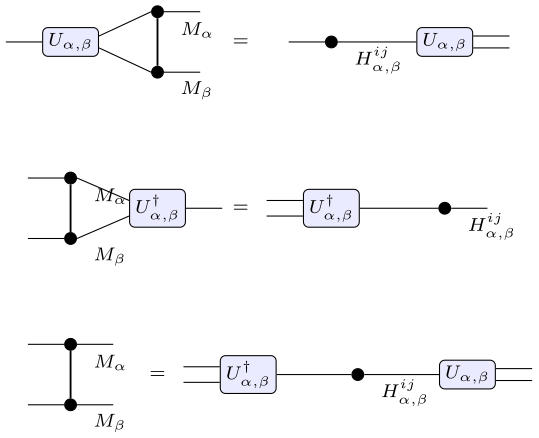
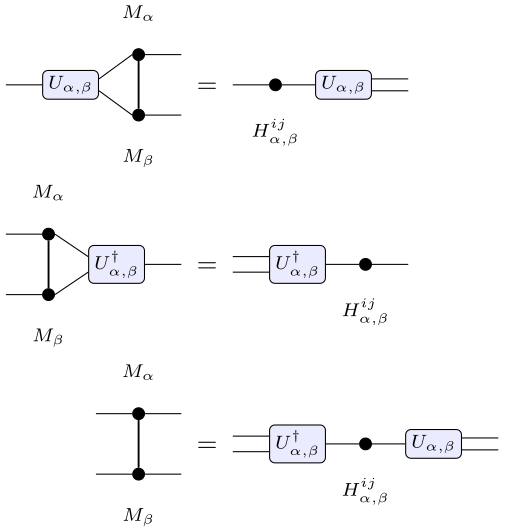
fix(tikz): stabilize labels and PEPS bounds

diff --git a/blueprint/src/macros/tn_print.tex b/blueprint/src/macros/tn_print.tex
@@ -1172,7 +1172,8 @@
         \TNVirtualPort{tnDnOpenWestPort}{tnDn}{west}\TNOpenVirtualWest{tnDnOpenWestPort}
         \TNVirtualPort{tnUpOpenEastPort}{tnUp}{east}\TNOpenVirtualEast{tnUpOpenEastPort}
         \TNVirtualPort{tnDnOpenEastPort}{tnDn}{east}\TNOpenVirtualEast{tnDnOpenEastPort}
-        \TNInsertion{tnu}{(0,0)}{#1}
+        \TNInsertion{tnu}{(0,0)}{}
+        \TNLabelRight{tnu}{#1}
         \TNPhysicalPort{tnUpTotnu}{tnUp}{south}\TNPhysicalPort{tnuTotnUp}{tnu}{north}\TNConnectPhysical{tnUpTotnu}{tnuTotnUp}
         \TNPhysicalPort{tnuTotnDn}{tnu}{south}\TNPhysicalPort{tnDnTotnu}{tnDn}{north}\TNConnectPhysical{tnuTotnDn}{tnDnTotnu}
         \TNPlacedLabel{tnClientLabel1139}{(-1.25,0)}{X}
@@ -1242,9 +1243,12 @@
         \TNTensor{tnD2}{(1.55,-0.48)}
         \TNTensor{tnU3}{(4.30,0.48)}
         \TNTensor{tnD3}{(4.30,-0.48)}
-        \TNInsertion{tnuA}{(0,0)}{#1}
-        \TNInsertion{tnuB}{(1.55,0)}{#1}
-        \TNInsertion{tnuC}{(4.30,0)}{#1}
+        \TNInsertion{tnuA}{(0,0)}{}
+        \TNInsertion{tnuB}{(1.55,0)}{}
+        \TNInsertion{tnuC}{(4.30,0)}{}
+        \TNLabelRight{tnuA}{#1}
+        \TNLabelRight{tnuB}{#1}
+        \TNLabelLeft{tnuC}{#1}
         \TNVirtualPort{tnLamTotnU1}{tnLam}{east}\TNVirtualPort{tnU1TotnLam}{tnU1}{west}\TNConnectVirtual{tnLamTotnU1}{tnU1TotnLam}
         \TNVirtualPort{tnLamTotnD1}{tnLam}{east}\TNVirtualPort{tnD1TotnLam}{tnD1}{west}\TNConnectVirtual{tnLamTotnD1}{tnD1TotnLam}
         \TNVirtualPort{tnU1TotnU2}{tnU1}{east}\TNVirtualPort{tnU2TotnU1}{tnU2}{west}\TNConnectVirtual{tnU1TotnU2}{tnU2TotnU1}
@@ -1497,14 +1501,12 @@
             \TNVirtualPort{absBOpen315Port}{absB}{315}\TNOpenVirtualSouth{absBOpen315Port}
             \TNPlacedLabel{tnClientLabel1469}{($(absB.south)+(0,-0.95)$)}{B_v}
         \end{TNPanel}
-        \TNPlacedLabel{tnClientLabel1471}{(1.15,0)}{\longmapsto}
-        \begin{TNPanel}{tnClientPanel1472}{(2.30cm,0)}
+        \TNPlacedLabel{tnClientLabel1471}{(1.45,0)}{\longmapsto}
+        \begin{TNPanel}{tnClientPanel1472}{(3.10cm,0)}
             \TNFourBondGaugeStar{absGauge}{(0,0)}
                 {Z_{e_1}^{\pm1}}{Z_{e_2}^{\pm1}}
                 {Z_{e_3}^{\pm1}}{Z_{e_4}^{\pm1}}
-            \TNPoint{absGaugeLabel}
-                {($(absGaugeSouthWestOuter)!0.5!(absGaugeSouthEastOuter)$)}
-            \TNLabelBelow{absGaugeLabel}{\widetilde B_v}
+            \TNLabelBelow{absGaugeCaption}{\widetilde B_v}
         \end{TNPanel}
     \end{TNDiagram}%
 }
@@ -1863,11 +1865,11 @@
             \TNPEPSSquareTensor{tiB}{(0,0)}
             \TNPlacedLabel{tnClientLabel1853}{($(tiB.south)+(0,-0.88)$)}{B}
         \end{TNPanel}
-        \TNPlacedLabel{tnClientLabel1855}{(1.25,0)}{=}
-        \begin{TNPanel}{tnClientPanel1856}{(2.35cm,0)}
+        \TNPlacedLabel{tnClientLabel1855}{(1.45,0)}{=}
+        \begin{TNPanel}{tnClientPanel1856}{(3.00cm,0)}
             \TNCardinalGaugeCross{tiGauge}{(0,0)}
                 {X}{X^{-1}}{Y}{Y^{-1}}
-            \TNLabelBelow{tiGaugeSouthOuter}{\lambda A}
+            \TNLabelBelow{tiGaugeCaption}{\lambda A}
         \end{TNPanel}
     \end{TNDiagram}%
 }
@@ -1891,11 +1893,8 @@
     \begin{TNDiagram}[normal]
         \TNFourBondGaugeStar{tnGaugeAction}{(0,0)}
             {M_{ve_1}}{M_{ve_2}}{M_{ve_3}}{M_{ve_4}}
-        \TNLabelRight{tnGaugeActionPhysical}{\sigma}
-        \TNPoint{tnGaugeActionLabel}
-            {($(tnGaugeActionSouthWestOuter)!0.5!
-                (tnGaugeActionSouthEastOuter)$)}
-        \TNLabelBelow{tnGaugeActionLabel}{A_v \mapsto A_v^X}
+        \TNLabelAbove{tnGaugeActionPhysicalOpen}{\sigma}
+        \TNLabelBelow{tnGaugeActionCaption}{A_v \mapsto A_v^X}
     \end{TNDiagram}%
 }
 

diff --git a/tex/tn/tn_library.tex b/tex/tn/tn_library.tex
@@ -751,12 +751,16 @@
     \edef\TN@normalgridprefix{normalGrid\the\TN@normalgridserial}%
     \TN@squarelatticepatch{\TN@normalgridprefix}{6}{6}{0.5}%
     \foreach \j in {0,...,6} { % chktex 11
-        \TN@vopenport{\TN@normalgridprefix0\j W}{-1,0}%
-        \TN@vopenport{\TN@normalgridprefix6\j E}{1,0}%
+        \TN@vopenport{\TN@normalgridprefix0\j W}
+            {-\TN@virtualleglen,0}%
+        \TN@vopenport{\TN@normalgridprefix6\j E}
+            {\TN@virtualleglen,0}%
     }%
     \foreach \i in {0,...,6} { % chktex 11
-        \TN@vopenport{\TN@normalgridprefix\i0S}{0,-1}%
-        \TN@vopenport{\TN@normalgridprefix\i6N}{0,1}%
+        \TN@vopenport{\TN@normalgridprefix\i0S}
+            {0,-\TN@virtualleglen}%
+        \TN@vopenport{\TN@normalgridprefix\i6N}
+            {0,\TN@virtualleglen}%
     }%
 }
 
@@ -829,7 +833,8 @@
         \path[tn region collar] (0.3,2.55) rectangle (1.7,3.18);
         \path[tn region collar] (1.3,2.55) rectangle (2.7,3.18);
     \end{scope}
-    \TN@annotationterminal{tnTopCollarLabel}{(1.50,3.18)}%
+    \TN@annotationterminal{tnTopCollarLabel}
+        {(\TN@normalgridprefix36NOpen)}%
     \TN@label[anchor=south,tn region label collar]{tnTopCollarLabel}
         {(0,\TN@labelclearance)}{\text{top collar}}%
 }
@@ -1074,7 +1079,10 @@
 % their bounds here makes clipping part of the shared PEPS presentation,
 % rather than a chapter-local adjustment.
 \newcommand{\TNPEPSNormalFullWindow}{%
-    \clip (-0.25,-0.25) rectangle (3.25,3.25);%
+    \clip (-0.25,-0.25) rectangle
+        ($(3.25,3.00)+(0,\TN@virtualleglen)
+            +(0,\TN@labelclearance)
+            +(0,\TN@annotationclearance)$);%
 }
 \newcommand{\TNPEPSNormalTallWindow}{%
     \clip (-0.25,0.75) rectangle (2.25,3.25);%
@@ -1311,7 +1319,9 @@
     \coordinate (#1Centre) at #2;%
     \TNTensor{#1Tensor}{(#1Centre)}%
     \TNPhysicalPort{#1Physical}{#1Tensor}{north}%
-    \TNOpenPhysicalNorth{#1Physical}%
+    \TNPhysicalTerminal{#1PhysicalOpen}
+        {($(#1Physical)+(0,\TN@physicalleglen)$)}%
+    \TNConnectPhysical{#1Physical}{#1PhysicalOpen}%
     \TNInsertion{#1WestInsertion}
         {($(#1Centre)+(-\TN@gaugeradius,0)$)}{}%
     \TNInsertion{#1EastInsertion}
@@ -1340,6 +1350,8 @@
     \TNOpenVirtualEast{#1EastOuter}%
     \TNOpenVirtualSouth{#1SouthWestOuter}%
     \TNOpenVirtualSouth{#1SouthEastOuter}%
+    \TN@annotationterminal{#1Caption}
+        {($(#1Centre)+(0,-\TN@gaugeradius-\TN@virtualleglen)$)}%
     \TN@label[anchor=south]{#1WestInsertion.north}
         {(0,\TN@labelclearance)}{#3}%
     \TN@label[anchor=south]{#1EastInsertion.north}
@@ -1384,12 +1396,14 @@
     \TNOpenVirtualEast{#1EastOuter}%
     \TNOpenVirtualSouth{#1SouthOuter}%
     \TNOpenVirtualNorth{#1NorthOuter}%
-    \TN@label[anchor=east]{#1WestInsertion.west}
-        {(-\TN@labelclearance,0)}{#3}%
-    \TN@label[anchor=west]{#1EastInsertion.east}
-        {(\TN@labelclearance,0)}{#4}%
-    \TN@label[anchor=north]{#1SouthInsertion.south}
-        {(0,-\TN@labelclearance)}{#5}%
+    \TN@annotationterminal{#1Caption}
+        {($(#1Centre)+(0,-\TN@gaugeradius-\TN@virtualleglen)$)}%
+    \TN@label[anchor=south]{#1WestInsertion.north}
+        {(0,\TN@labelclearance)}{#3}%
+    \TN@label[anchor=south]{#1EastInsertion.north}
+        {(0,\TN@labelclearance)}{#4}%
+    \TN@label[anchor=east]{#1SouthInsertion.west}
+        {(-\TN@labelclearance,0)}{#5}%
     \TN@label[anchor=south]{#1NorthInsertion.north}
         {(0,\TN@labelclearance)}{#6}%
 }

diff --git a/docs/tn_diagram_grammar.md b/docs/tn_diagram_grammar.md
@@ -42,7 +42,8 @@ placed elsewhere or composed with different atoms without changing their
 internal definitions.
 
 Complete diagrams use `TNDiagram`. Short identities use `TNEquationRow`,
-`TNTerm`, and `TNRelation`. The `normal` profile is used for structural
+`TNTerm`, and `TNRelation`; related identities use `TNEquationRows` so that
+their relation signs share one column. The `normal` profile is used for structural
 figures; `compact` is used for definitions and local identities. These profiles
 fix the pitches, leg lengths, branch positions, relation gaps, trace
 clearances, and outer margins.
@@ -99,9 +100,13 @@ fractions, and port roles have the same meaning in every occurrence.
 - A PEPS tensor is a black dot with the appropriate local virtual legs in the
   lattice directions and a physical leg. A PEPS region is drawn as a rectangle
   or polygon around the sites in the region, not as a new tensor site.
-- A virtual operator, gauge, or arbitrary matrix insertion is a red dot on a
-  virtual leg. A physical operation is a red dot on a physical leg. These two
-  cases should not be interchanged.
+- A virtual operator, gauge, or arbitrary matrix insertion is a fixed-size red
+  dot on a virtual leg, with its label placed outside the dot by a profile
+  clearance. A physical operation is the same fixed marker on a physical leg.
+  Its diameter does not depend on the length of its label. These two cases
+  should not be interchanged. The directional `TNLabelAbove`, `TNLabelBelow`,
+  `TNLabelLeft`, and `TNLabelRight` operations choose the clear side when the
+  insertion lies inside a vertical or horizontal composition.
 - A gauge transform is a virtual operator insertion together with its inverse
   on the adjacent oriented virtual leg when the diagram represents a
   cancellation. If only one red dot is shown, the diagram represents a single
@@ -292,7 +297,9 @@ matrix or operator with paired system ports; `\TNSplitMap`, `\TNMergeMap`,
 `\TNPhysicalSplitMap`, `\TNPhysicalMergeMap`, and `\TNFusionMap` for typed
 trivalent maps; `\TNSectorBus` for a virtual sector line;
 `\TNSquarePEPSPatch` for a finite square lattice; and `\TNHorizontalWord` and
-`\TNVerticalWord` for standard finite words. MPS and MPO words are declared by
+`\TNVerticalWord` for standard finite words. The common gauge and periodic
+constructions are `\TNGaugeConjugatedMPSSite`, `\TNFourBondGaugeStar`,
+`\TNCardinalGaugeCross`, and `\TNCyclicMPSWord`. MPS and MPO words are declared by
 distinct constructors, since an MPS site has one physical index whereas an MPO
 site has two. These constructions determine the conventional index directions
 once. Each local atom declares stable boundary ports; the `\TNOpen...`
